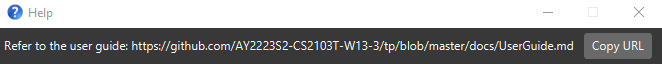
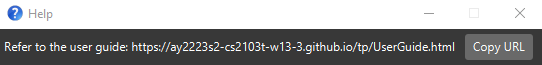
Update UG

diff --git a/docs/UserGuide.md b/docs/UserGuide.md
@@ -120,7 +120,7 @@ Clock-Work provides some flexibility regarding the types of inputs it accepts. T
 
 ### Basic Information about Tasks
 * A Task can be:
-    * A <span style="color:#4285F4">simpleTask</span>, which does not have a _long date_ attached to it. ([What is a Date?](#q2-what-is-a-valid-date))
+    * A <span style="color:#4285F4">simpleTask</span>, which does not have a _long date_ attached to it. ([What is a LongDate?](#q2-what-is-a-valid-Longdate))
     * A <span style="color:#34A853">deadline</span>, which has a _long date_ known as `deadline`.
     * An <span style="color:#FBBC05">event</span>, which has 2 _long dates_ known as a `from` and a `to`.
 
@@ -138,9 +138,9 @@ Clock-Work provides some flexibility regarding the types of inputs it accepts. T
 :man_technologist: Congratulations on reaching this part of the user guide. You should have Clock-Work started and running at this point. You are now ready to add your first task! :tada:
 
 Adds a task to the task book. There are 3 types of tasks. `<span style="color:#4285F4">simpleTask</span>`, `Deadline` and `Event`.
-For `Deadline` and `Event` `Date` field(s) are required.
+For `Deadline` and `Event` `LongDate` field(s) are required.
 
-`Date` should be in the format `YYYY-MM-DD HHMM`. ([What is a valid Date?](#q2-what-is-a-valid-date))
+`LongDate` should be in the format `YYYY-MM-DD HHMM`. ([What is a valid LongDate?](#q2-what-is-a-valid-Longdate))
 
 By default, effort level is 24. ([What is an effort level?](#q3-what-is-an-effort-level))
 
@@ -427,8 +427,8 @@ _Details coming soon ..._
 ### Q1 How do I transfer my data to another Computer?
 **A**: Install the app in the other computer and overwrite the empty data file it creates with the file that contains the data of your previous TaskBook home folder.
 
-### Q2 What is a valid Date?
-**A**: A valid Date must be in the format of `YYYY-MM-DD HHMM` such as `2023-07-13 1800` (13 July 2023, 6PM). A valid Date must have a valid time. A minimum of 4 characters must be supplied and only a maximum of 4 character will be parsed
+### Q2 What is a valid LongDate?
+**A**: A valid LongDate must be in the format of `YYYY-MM-DD HHMM` such as `2023-07-13 1800` (13 July 2023, 6PM). A valid LongDate must have a valid time. A minimum of 4 characters must be supplied and only a maximum of 4 character will be parsed
   e.g. `2023-07-13 180` is invalid and `2023-07-13 18000000000` is understood as `2023-07-13 1800`
 
 ### Q3 What is an effort level?
@@ -440,8 +440,8 @@ _Details coming soon ..._
 ### Q5 Why does two different tags have the same tag color??
 **A**: There are currently 20 available color codes for tags. By the birthday paradox, the chances of collisions do rise as more tags exists. More colors will be added in future iterations.
 
-### Q6 What is the difference between a `Date` and a `ShortDate`?
-**A**: A `ShortDate` omits the `HHMM` component of a `Date`. 
+### Q6 What is the difference between a `LongDate` and a `ShortDate`?
+**A**: A `ShortDate` omits the `HHMM` component of a `LongDate`. 
 
 --------------------------------------------------------------------------------------------------------------------
 
@@ -465,5 +465,5 @@ _Details coming soon ..._
 ## 6. Glossary
 1. Overload: When the sum of effort for all tasks allocated to a particular day exceeds the user-preferred daily effort level.
 2. Free day: Allocating a task to this day will not result in overloading.
-3. Short date: YYYY-MM-DD
-4. Date: YYYY-MM-DD HHMM
+3. ShortDate: YYYY-MM-DD
+4. LongDate: YYYY-MM-DD HHMM
